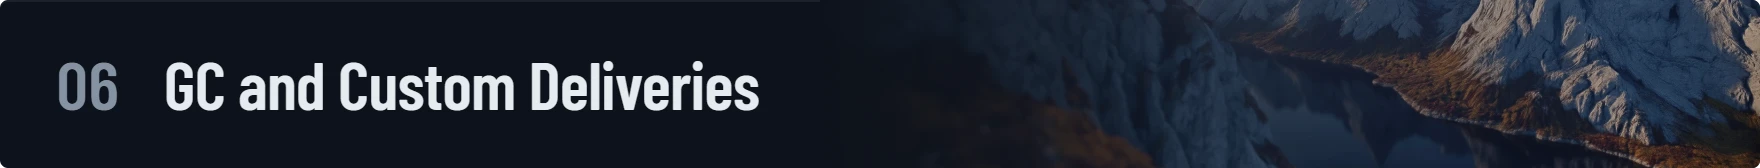
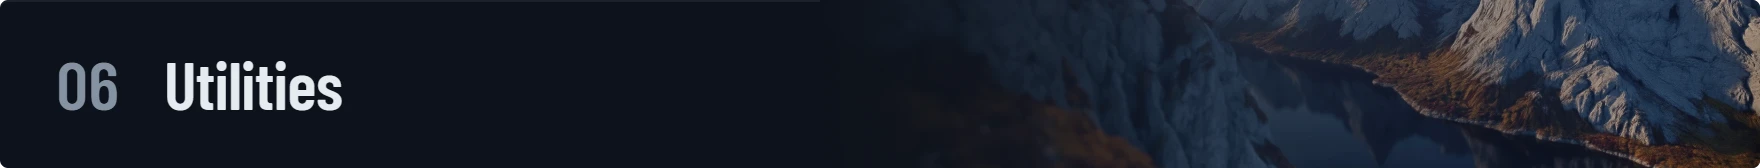
Rewrite How it works around the solvers, with animated diagrams and a flowing-water hero

Changed region(s): [[0.0938, 0.3571, 0.4375, 0.6548]]

diff --git a/README.md b/README.md
@@ -130,12 +130,31 @@ Optional hooks repair your gear, and keep your food, medicine, and FC buffs acti
 
 <img src="assets/h-how.webp" width="880" alt="How it works">
 
-<img src="assets/how-it-works.png" width="880" alt="The Drakos plugin runs on your PC inside FFXIV and Dalamud. It sends each order to the Drakos planning server, gets a plan back, and checks your license key with the license server.">
+Crafting and gathering in FFXIV are mathematical optimization problems, and Drakos treats them that way. The rotations in guides are written for a human with scarce working memory. Drakos does not follow them. It *solves* each craft, each node, and the whole order with dynamic programming, reinforcement learning, and Monte Carlo methods.
 
-1. **Just add items to your orders.** The Drakos plugin runs inside the game through Dalamud. Drakos.exe is a desktop app that controls the same plugin.
-2. **The planning server plans the order.** The plugin sends the order to the Drakos planning server, which answers with what to gather, buy, and craft, and in what order. If the server does not answer, the order waits and carries on once it does.
-3. **The plugin does the work on your PC.** It solves each crafting and gathering rotation on your PC and moves your character with [vnavmesh](https://github.com/awgil/ffxiv_navmesh).
-4. **The license server checks your key.** While Drakos runs, it checks in with the license server every 10 seconds. If it loses the server for 30 seconds, it finishes its current step and stops.
+<img src="assets/arch-loop.png" width="880" alt="Drakos expands an order into tasks, schedules them, solves each task, acts one step at a time in the game, and plans again after each task.">
+
+- **One order becomes a task graph**: Drakos expands what you ordered into every craft, gather, and purchase it takes, down to the raw materials, and subtracts what you already hold.
+- **A solver schedules the work**: The scheduler finds the tasks that hold everything else up, routes the timed nodes into their windows, and fills the gaps between them with the work that saves the most time. While it does that, it simulates your GP, inventory, food, and travel.
+- **Every task gets its own solver**: A craft gets a solved rotation. A node gets a solved rotation and a GP budget. A scrip run gets a solved route.
+- **Drakos plans again after each task**: The plan never goes stale. What you hold now, what Drakos just made, and which timed node just spawned all go into the next decision.
+
+<img src="assets/arch-schedule.png" width="880" alt="An illustrated schedule. Drakos gathers, visits a timed node while its window is open, farms mobs and crafts while GP comes back, then visits the next timed node.">
+
+<img src="assets/arch-methods.webp" width="880" alt="Drakos solves with dynamic programming, reinforcement learning, and Monte Carlo methods.">
+
+| What Drakos decides | How it solves it |
+|---|---|
+| The rotation for a craft | Rapidium searches the craft's states best-first and drops every branch that provably cannot beat the best rotation it has found. |
+| What to press on a gathering node | A solver over your GP, the node's integrity, and your buffs returns the best rotation for every GP budget. |
+| How much GP each visit gets | Backward induction over the visits ahead, so Drakos does not burn GP now that is worth more at the next node. |
+| How to get the most scrips from a collectable | Drakos solves the collectable in two stages and stores the answer as a compact decision diagram, which it looks up at every step. |
+| Which nodes to visit, in which order | Exact dynamic programming for the node groups in a zone, and prize-collecting routing for timed nodes. |
+| Expert recipes | A neural network, trained by reinforcement learning on hundreds of millions of simulated crafting steps, plays the random conditions. An exact solver takes over as soon as a guaranteed finish exists. |
+
+- **Exact where it can be, fast where it must be**: A perfect answer that arrives after the node despawns is worth nothing. For collectables, Drakos schedules with a fast approximate answer and gathers with the full solution.
+- **Written in Rust**: The heavy solvers are native Rust. The crafting solver runs on half of your CPU cores by default, so the game keeps the rest.
+- **Solved once**: Drakos saves solved rotations to disk and shares them between your characters. Two recipes that craft identically share one solved rotation.
 
 <br>
 
